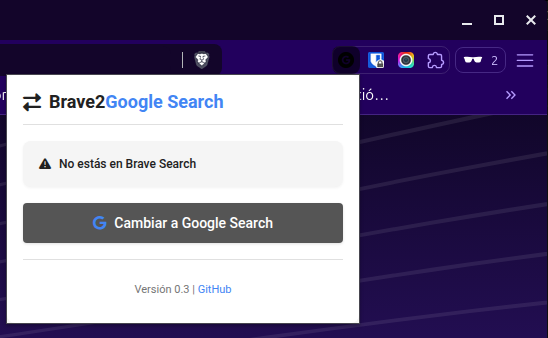
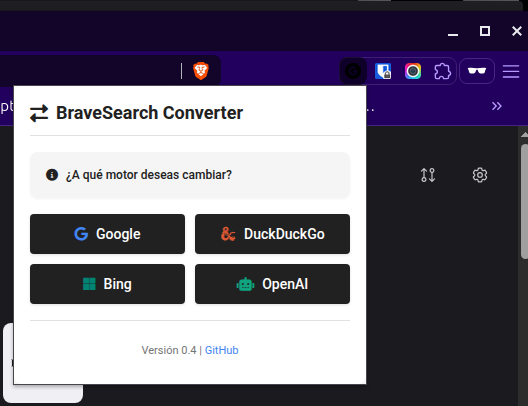
feat: añadir soporte para DuckDuckGo, Bing y OpenAI. Actualizar interfaz y documentación

diff --git a/popup.js b/popup.js
@@ -30,18 +30,33 @@ function updateStatus(message, type = 'info') {
   }
 }
 
-// Función para animar el botón durante el proceso
-function animateButton(isProcessing = false) {
-  const button = document.getElementById('changeButton');
+// Función para animar botones durante el proceso
+function animateButtons(isProcessing = false, buttonId = null) {
+  const buttons = document.querySelectorAll('.search-button');
+  const iconMap = {
+    'googleButton': '<i class="fab fa-google" style="color: #4285F4;"></i> Google',
+    'duckduckgoButton': '<i class="fab fa-d-and-d" style="color: #DE5833;"></i> DuckDuckGo',
+    'bingButton': '<i class="fab fa-microsoft" style="color: #008373;"></i> Bing',
+    'openaiButton': '<i class="fas fa-robot" style="color: #10A37F;"></i> OpenAI'
+  };
   
-  if (isProcessing) {
-    button.innerHTML = '<i class="fas fa-spinner fa-spin" style="color: #4285F4;"></i> Procesando...';
-    button.disabled = true;
-    button.style.backgroundColor = '#555555';
+  if (isProcessing && buttonId) {
+    // Desactivar todos los botones
+    buttons.forEach(button => {
+      button.disabled = true;
+      button.style.backgroundColor = '#555555';
+    });
+    
+    // Mostrar animación solo en el botón seleccionado
+    const selectedButton = document.getElementById(buttonId);
+    selectedButton.innerHTML = '<i class="fas fa-spinner fa-spin"></i> Procesando...';
   } else {
-    button.innerHTML = '<i class="fab fa-google" style="color: #4285F4;"></i> Cambiar a Google Search';
-    button.disabled = false;
-    button.style.backgroundColor = '#212121';
+    // Restaurar todos los botones
+    buttons.forEach(button => {
+      button.innerHTML = iconMap[button.id];
+      button.disabled = false;
+      button.style.backgroundColor = '#212121';
+    });
   }
 }
 
@@ -50,37 +65,47 @@ document.addEventListener('DOMContentLoaded', function() {
   chrome.tabs.query({active: true, currentWindow: true}, function(tabs) {
     let currentTab = tabs[0];
     if (currentTab.url.startsWith('https://search.brave.com/search?')) {
-      updateStatus('Listo para cambiar a Google Search', 'info');
+      updateStatus('¿A qué motor deseas cambiar?', 'info');
     } else {
       updateStatus('No estás en Brave Search', 'warning');
-      document.getElementById('changeButton').disabled = true;
-      document.getElementById('changeButton').style.backgroundColor = '#555555';
+      // Desactivar todos los botones
+      document.querySelectorAll('.search-button').forEach(button => {
+        button.disabled = true;
+        button.style.backgroundColor = '#555555';
+      });
     }
   });
 });
 
-// Manejar el clic en el botón
-document.getElementById('changeButton').addEventListener('click', function() {
+// Función para cambiar el motor de búsqueda
+function changeSearchEngine(engineName, engineUrl) {
   chrome.tabs.query({active: true, currentWindow: true}, function(tabs) {
     let currentTab = tabs[0];
     if (currentTab.url.startsWith('https://search.brave.com/search?')) {
-      // Animar el botón mientras se procesa
-      animateButton(true);
+      // Animar botones mientras se procesa
+      const buttonId = {
+        'Google': 'googleButton',
+        'DuckDuckGo': 'duckduckgoButton',
+        'Bing': 'bingButton',
+        'OpenAI': 'openaiButton'
+      }[engineName];
+      
+      animateButtons(true, buttonId);
       
       let url = new URL(currentTab.url);
       let query = url.searchParams.get('q');
-      let newUrl = `https://www.google.com/search?q=${encodeURIComponent(query)}`;
+      let newUrl = `${engineUrl}${encodeURIComponent(query)}`;
       
       // Pequeña demora para mostrar la animación
       setTimeout(() => {
         chrome.tabs.update(currentTab.id, {url: newUrl}, function() {
           if (chrome.runtime.lastError) {
             updateStatus('Error: ' + chrome.runtime.lastError.message, 'error');
-            animateButton(false);
+            animateButtons(false);
           } else {
-            updateStatus('¡Cambiado a Google con éxito!', 'success');
+            updateStatus(`¡Cambiado a ${engineName} con éxito!`, 'success');
             setTimeout(() => {
-              animateButton(false);
+              animateButtons(false);
             }, 1000);
           }
         });
@@ -89,4 +114,21 @@ document.getElementById('changeButton').addEventListener('click', function() {
       updateStatus('No estás en una página de Brave Search', 'warning');
     }
   });
+}
+
+// Manejar clics en cada botón
+document.getElementById('googleButton').addEventListener('click', function() {
+  changeSearchEngine('Google', 'https://www.google.com/search?q=');
+});
+
+document.getElementById('duckduckgoButton').addEventListener('click', function() {
+  changeSearchEngine('DuckDuckGo', 'https://duckduckgo.com/?q=');
+});
+
+document.getElementById('bingButton').addEventListener('click', function() {
+  changeSearchEngine('Bing', 'https://www.bing.com/search?q=');
+});
+
+document.getElementById('openaiButton').addEventListener('click', function() {
+  changeSearchEngine('OpenAI', 'https://chat.openai.com/?q=');
 });

diff --git a/popup.html b/popup.html
@@ -2,7 +2,7 @@
 <html>
 <head>
   <meta charset="UTF-8">
-  <title>Brave 2 Google Search</title>
+  <title>Brave Search Converter</title>
   <link href="https://fonts.googleapis.com/css2?family=Roboto:wght@400;500;700&display=swap" rel="stylesheet">
   <link href="https://cdnjs.cloudflare.com/ajax/libs/font-awesome/6.0.0-beta3/css/all.min.css" rel="stylesheet">
   <style>
@@ -78,11 +78,18 @@
       color: #212121;
     }
     
-    #changeButton {
+    .search-buttons {
+      display: grid;
+      grid-template-columns: 1fr 1fr;
+      gap: 10px;
+      margin-bottom: 16px;
+    }
+    
+    .search-button {
       background-color: #212121;
       color: white;
       border: none;
-      padding: 12px 16px;
+      padding: 12px 10px;
       border-radius: 4px;
       font-family: 'Roboto', sans-serif;
       font-weight: 500;
@@ -92,21 +99,40 @@
       display: flex;
       align-items: center;
       justify-content: center;
-      width: 100%;
       box-shadow: 0 1px 3px rgba(0, 0, 0, 0.12);
     }
     
-    #changeButton i {
+    .search-button i {
       margin-right: 8px;
+    }
+    
+    #googleButton i {
       color: #4285F4;
     }
     
-    #changeButton:hover {
+    #duckduckgoButton i {
+      color: #DE5833;
+    }
+    
+    #bingButton i {
+      color: #008373;
+    }
+    
+    #openaiButton i {
+      color: #10A37F;
+    }
+    
+    .search-button:hover {
       background-color: #000000;
     }
     
-    #changeButton:active {
+    .search-button:active {
       transform: scale(0.98);
+    }
+    
+    .search-button:disabled {
+      background-color: #555555;
+      cursor: not-allowed;
     }
     
     .footer {
@@ -148,20 +174,31 @@
   <div class="header">
     <div class="logo">
       <i class="fas fa-exchange-alt"></i>
-      <span class="brave">Brave</span> 2 <span class="google">Google Search</span>
+      <span class="brave">Brave</span> Search Converter
     </div>
   </div>
   
   <div class="status-container">
-    <p id="status"><i class="fas fa-info-circle"></i> Haz clic para cambiar a Google Search</p>
+    <p id="status"><i class="fas fa-info-circle"></i> Selecciona un motor de búsqueda</p>
   </div>
   
-  <button id="changeButton">
-    <i class="fab fa-google"></i> Cambiar a Google Search
-  </button>
+  <div class="search-buttons">
+    <button id="googleButton" class="search-button">
+      <i class="fab fa-google"></i> Google
+    </button>
+    <button id="duckduckgoButton" class="search-button">
+      <i class="fab fa-d-and-d"></i> DuckDuckGo
+    </button>
+    <button id="bingButton" class="search-button">
+      <i class="fab fa-microsoft"></i> Bing
+    </button>
+    <button id="openaiButton" class="search-button">
+      <i class="fas fa-robot"></i> OpenAI
+    </button>
+  </div>
   
   <div class="footer">
-    <p>Versión 0.3 | <a href="https://github.com/686f6c61/extension-chrome-brave-to-google-search" target="_blank">GitHub</a></p>
+    <p>Versión 0.4 | <a href="https://github.com/686f6c61/extension-chrome-brave-to-google-search" target="_blank">GitHub</a></p>
   </div>
   
   <script src="popup.js"></script>

diff --git a/readme.md b/readme.md
@@ -1,12 +1,19 @@
 <div align="center">
 
-# Brave 2 Google Search
+# Brave Search Converter
 
-<img src="icon256.png" alt="Brave 2 Google Search Logo" width="128px" height="128px">
+<img src="icon256.png" alt="Brave Search Converter Logo" width="128px" height="128px">
 
-_Convierte tus búsquedas de Brave a Google con un solo clic_
+<div style="display: flex; justify-content: center; margin-top: 20px; margin-bottom: 20px;">
+  <img src="https://upload.wikimedia.org/wikipedia/commons/thumb/5/53/Google_%22G%22_Logo.svg/512px-Google_%22G%22_Logo.svg.png" alt="Google Logo" width="48px" height="48px" style="margin: 0 10px;">
+  <img src="https://upload.wikimedia.org/wikipedia/commons/thumb/e/e9/Bing_logo.svg/512px-Bing_logo.svg.png" alt="Bing Logo" width="48px" height="48px" style="margin: 0 10px;">
+  <img src="https://upload.wikimedia.org/wikipedia/commons/thumb/9/90/DuckDuckGo_logo.svg/512px-DuckDuckGo_logo.svg.png" alt="DuckDuckGo Logo" width="48px" height="48px" style="margin: 0 10px;">
+  <img src="https://upload.wikimedia.org/wikipedia/commons/thumb/0/04/ChatGPT_logo.svg/512px-ChatGPT_logo.svg.png" alt="OpenAI Logo" width="48px" height="48px" style="margin: 0 10px;">
+</div>
 
-[![Versión](https://img.shields.io/badge/versi%C3%B3n-0.3-blue)](https://github.com/686f6c61/extension-chrome-brave-to-google-search)
+_Convierte tus búsquedas de Brave a Google, DuckDuckGo, Bing y OpenAI con un solo clic_
+
+[![Versión](https://img.shields.io/badge/versi%C3%B3n-0.4-blue)](https://github.com/686f6c61/extension-chrome-brave-to-google-search)
 [![Chrome](https://img.shields.io/badge/Chrome-compatible-brightgreen)](https://github.com/686f6c61/extension-chrome-brave-to-google-search)
 [![Brave](https://img.shields.io/badge/Brave-compatible-brightgreen)](https://github.com/686f6c61/extension-chrome-brave-to-google-search)
 
@@ -14,13 +21,14 @@ _Convierte tus búsquedas de Brave a Google con un solo clic_
 
 ## 📝 Descripción
 
-**Brave 2 Google Search** es una extensión minimalista para Chrome/Brave que te permite cambiar fácilmente de los resultados de búsqueda de Brave a los resultados equivalentes en Google. Con un simple clic, la extensión redirige la página de resultados de Brave Search a la página correspondiente de Google Search, conservando exactamente los mismos términos de búsqueda.
+**Brave Search Converter** es una extensión minimalista para Chrome/Brave que te permite cambiar fácilmente de los resultados de búsqueda de Brave a los resultados equivalentes en Google, DuckDuckGo, Bing o incluso realizar la consulta en OpenAI. Con un simple clic, la extensión redirige la página de resultados de Brave Search a la página correspondiente del motor de búsqueda seleccionado, conservando exactamente los mismos términos de búsqueda.
 
 ## ✨ Características
 
-- 🔄 Conversión instantánea de Brave Search a Google Search
+- 🔄 Conversión instantánea de Brave Search a múltiples motores de búsqueda
 - 🔍 Mantiene los términos de búsqueda originales
-- 🎨 Interfaz minimalista en blanco y negro con acentos azules solo para Google
+- 🔎 Soporte para Google, DuckDuckGo, Bing y OpenAI
+- 🎨 Interfaz minimalista con colores distintivos para cada motor de búsqueda
 - 📱 Diseño moderno y responsive
 - 🔔 Feedback visual con indicadores de estado
 - ⚡ Ligera y rápida, sin impacto en el rendimiento
@@ -29,9 +37,9 @@ _Convierte tus búsquedas de Brave a Google con un solo clic_
 
 ![Captura de pantalla de la extensión](imagen.png)
 
-- Panel principal con el título "Brave 2 Google Search"
+- Panel principal con el título "Brave Search Converter"
 - Indicador de estado que muestra si estás en una página de Brave Search
-- Botón prominente para convertir la búsqueda a Google
+- Botones para convertir la búsqueda a Google, DuckDuckGo, Bing u OpenAI
 - Información de versión y enlace al repositorio
 
 ## 🚀 Instalación
@@ -61,16 +69,21 @@ _La extensión estará disponible en Chrome Web Store._
 
 2. Haz clic en el icono de la extensión en la barra de herramientas
 
-3. Verás un mensaje indicando si estás en una página de Brave Search
+3. Verás un mensaje preguntando a qué motor de búsqueda deseas cambiar
 
-4. Si estás en una página de búsqueda de Brave, haz clic en el botón "Cambiar a Google Search"
+4. Si estás en una página de búsqueda de Brave, selecciona uno de los motores disponibles:
+   - Google: Para buscar en Google Search
+   - DuckDuckGo: Para buscar en DuckDuckGo
+   - Bing: Para buscar en Microsoft Bing
+   - OpenAI: Para preguntar a ChatGPT
 
-5. La página se actualizará automáticamente con los resultados equivalentes de Google Search
+5. La página se actualizará automáticamente con los resultados equivalentes en el motor seleccionado
 
 ## ⚠ Limitaciones
 
 - La extensión solo funciona en páginas de resultados de búsqueda de Brave
-- Requiere una conexión a internet activa para redirigir a Google Search
+- Requiere una conexión a internet activa para redirigir a los motores de búsqueda
+- Para OpenAI, es posible que necesites estar logueado o tener una cuenta para acceder a ChatGPT
 - No recopila ni almacena datos de búsqueda
 
 ## 👥 Contribuciones
